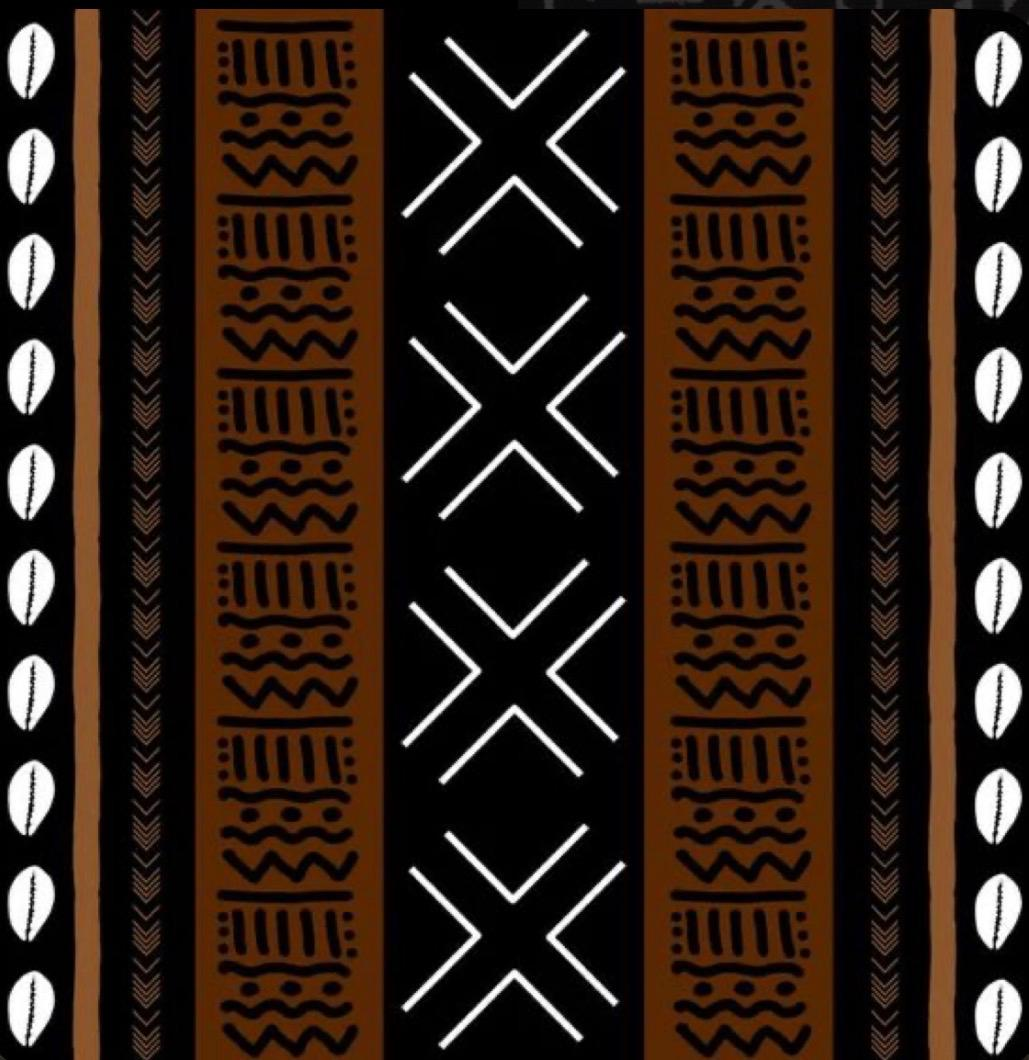
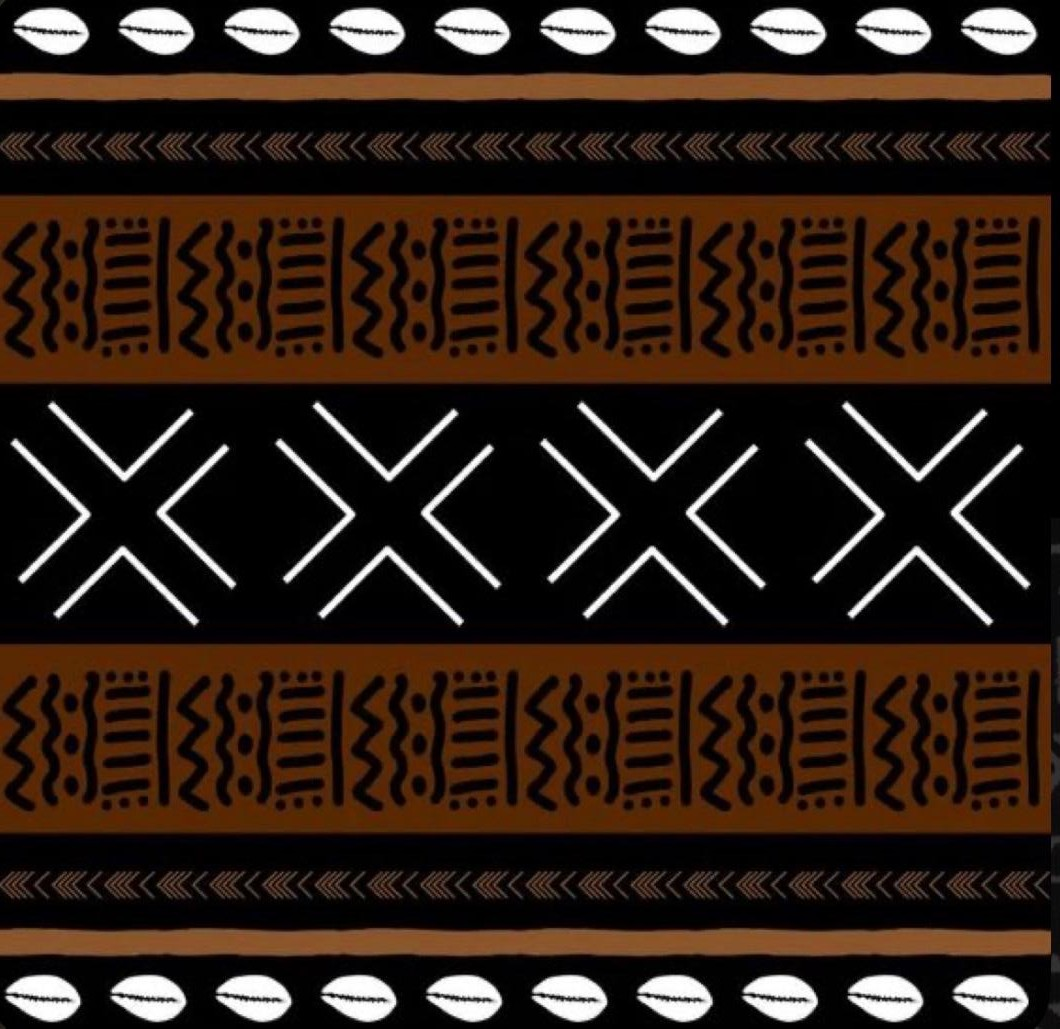
Rotate bogoland1.jpeg 90deg for horizontal pattern strip; fix broken CSS reference after rename

diff --git a/css/style.css b/css/style.css
@@ -34,7 +34,7 @@ img{max-width:100%; display:block;}
 
 /* bogolan-inspired geometric pattern strip (original triangle/diamond motif) */
 .pattern-strip{ height:48px; width:100%;
-  background: url('../bololand1.jpeg') repeat-x left center; background-size:auto 100%;
+  background: url('../bogoland1.jpeg') repeat-x left center; background-size:auto 100%;
   clip-path: polygon(0 0,100% 0,100% 60%,0 100%);
 }
 .pattern-divider{ display:block; width:100%; height:60px;
